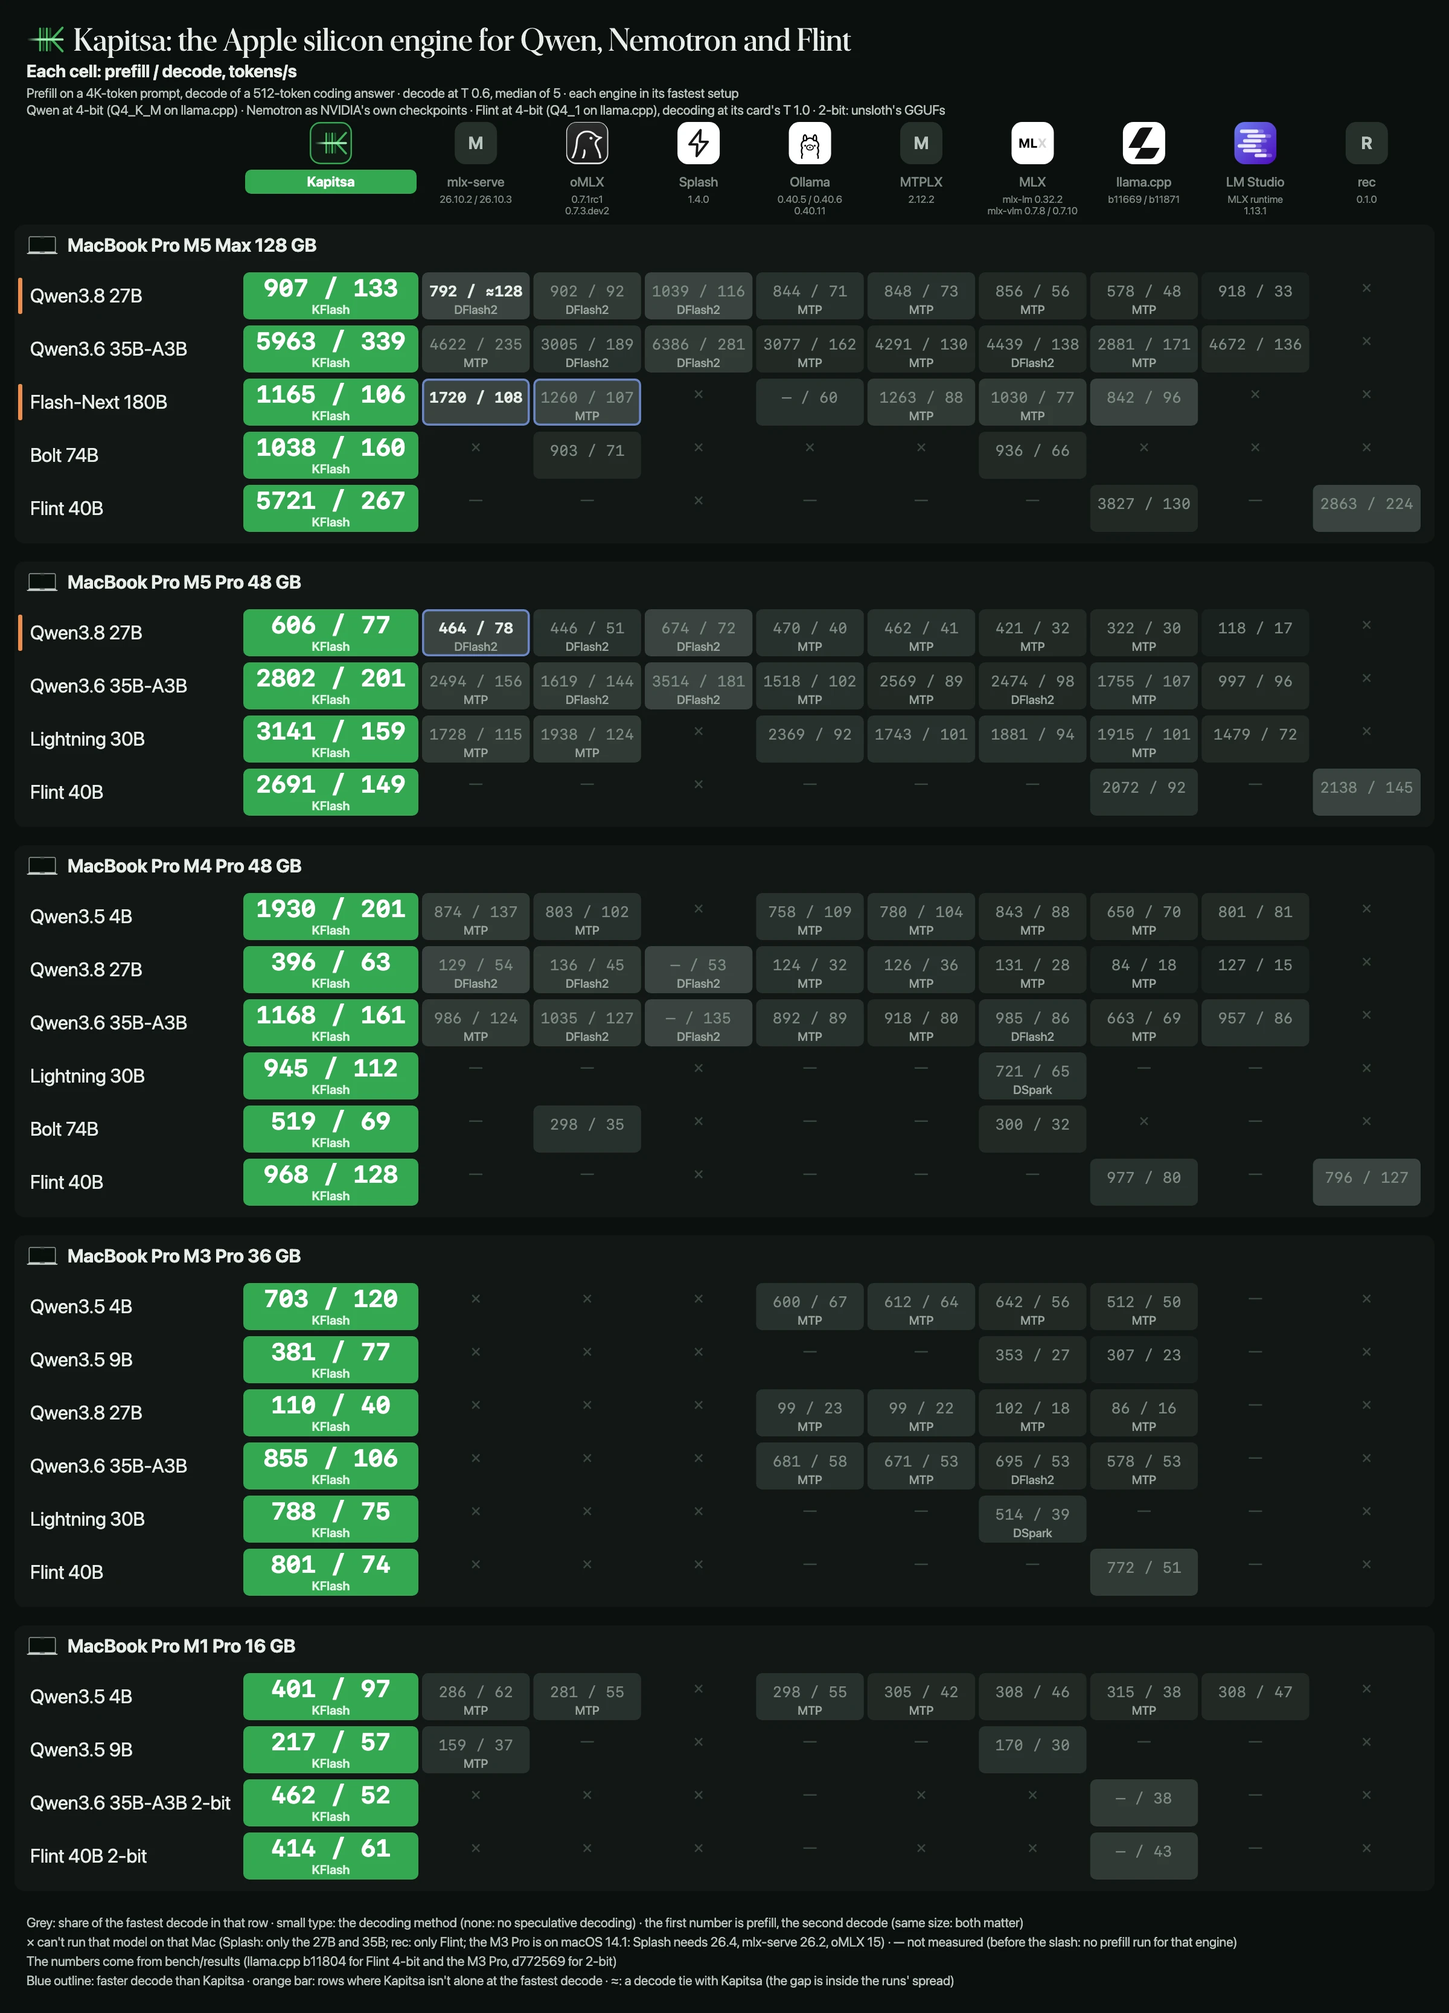
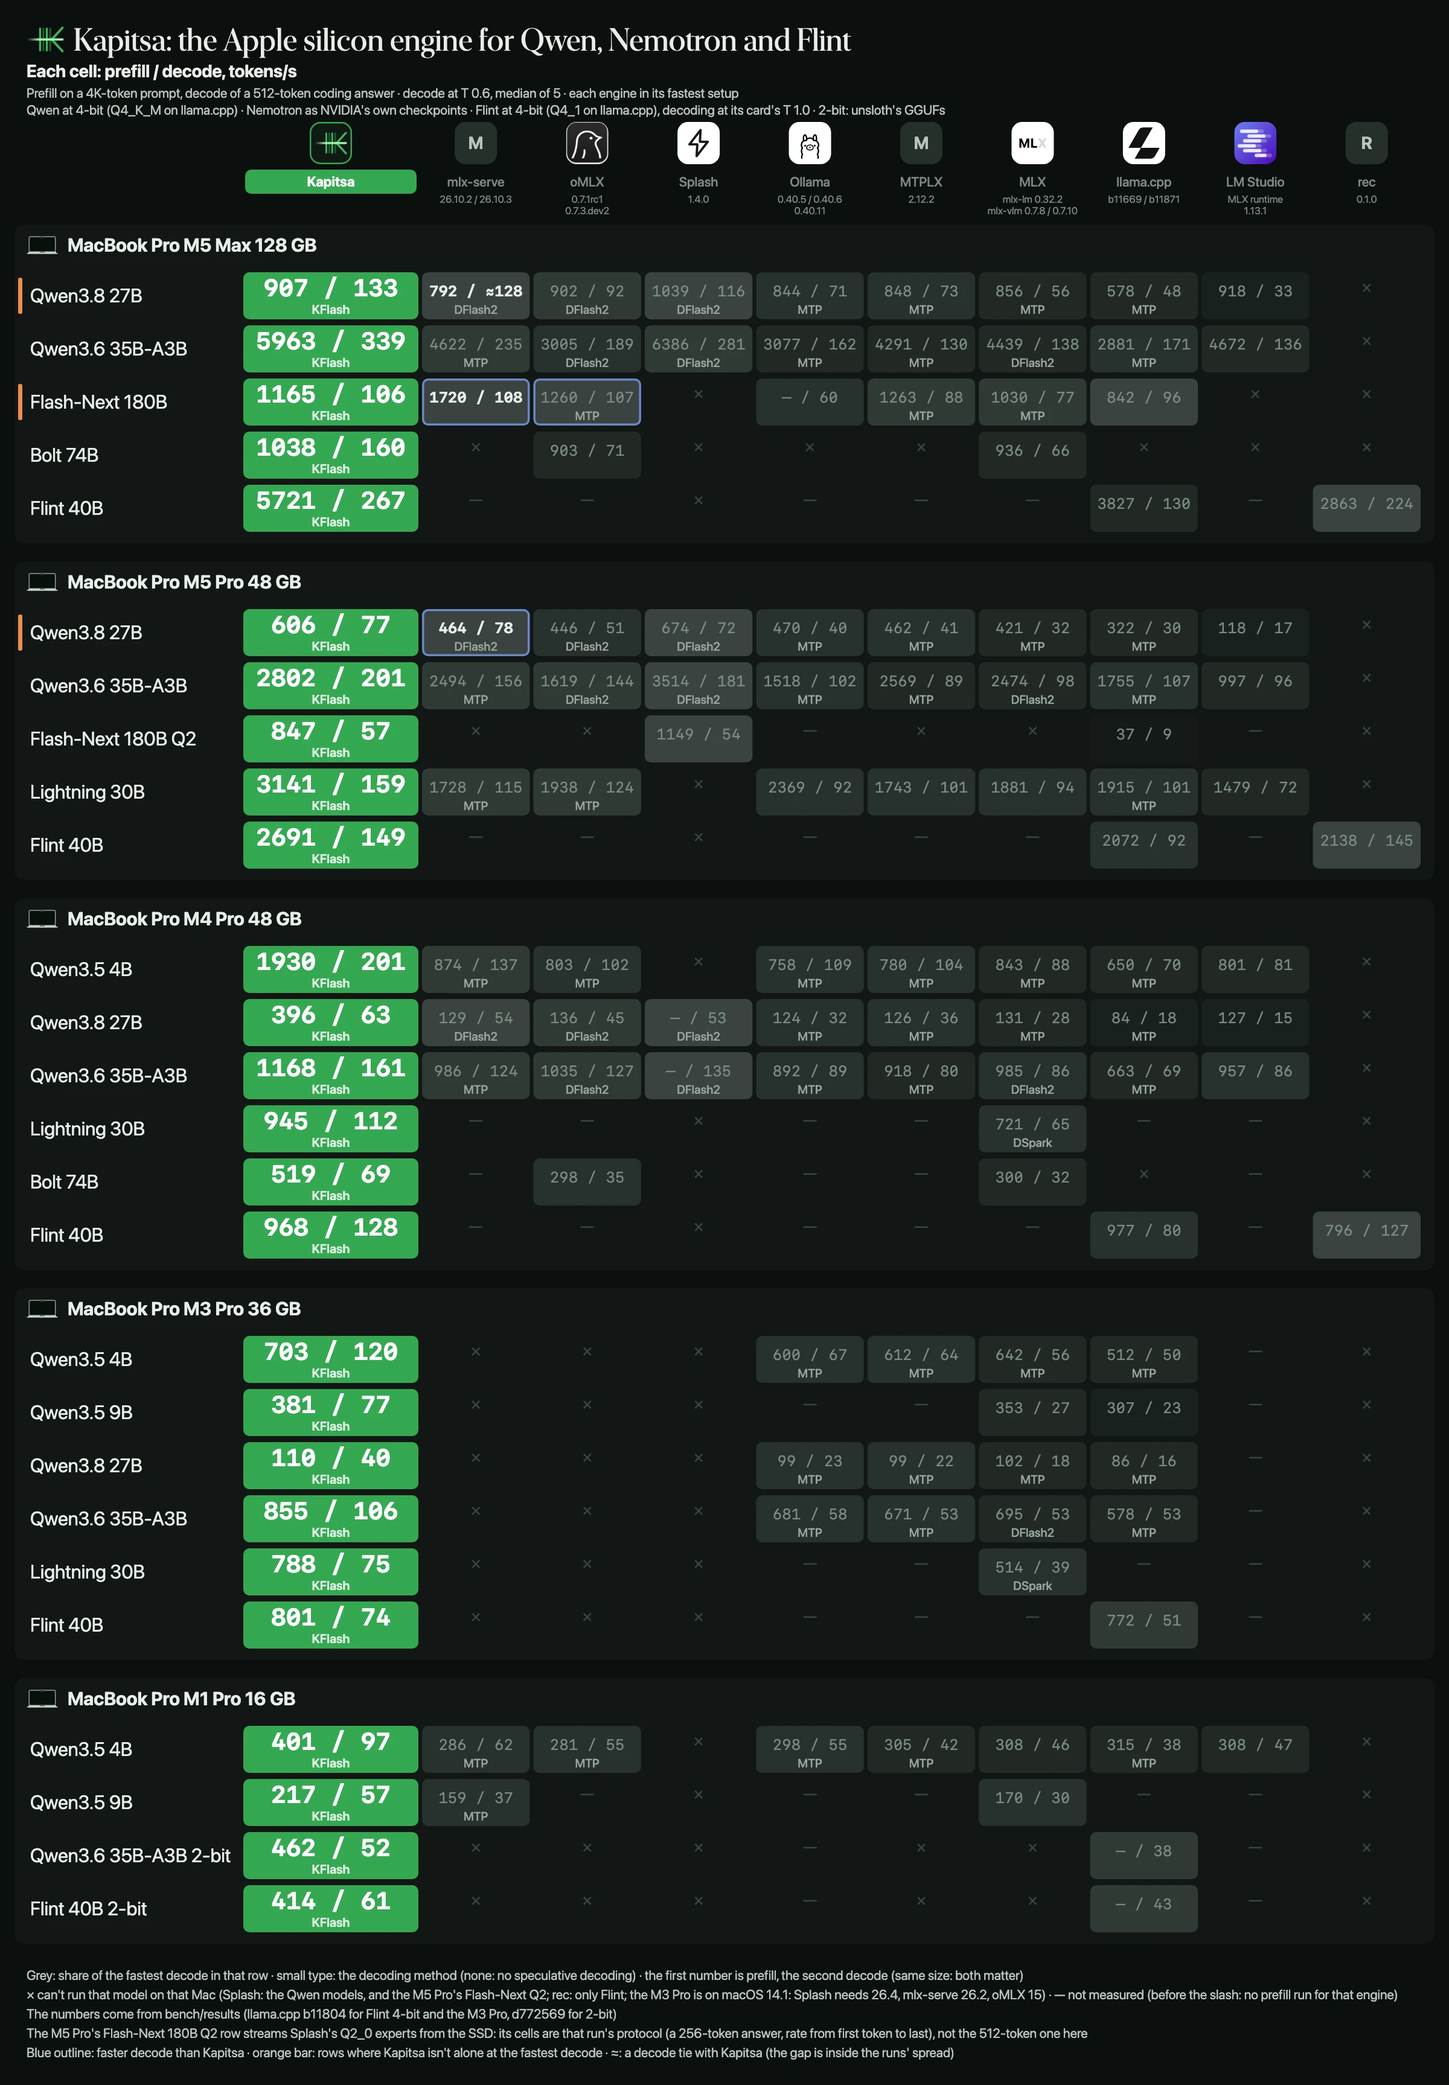
README: the Flash-Next Q2_0 row on the M5 Pro, and What's new for Splash's engine and SSD offloading
The M5 Pro table and poster gain the 2026-10-27 four-engine Flash-Next 180B
Q2_0 row (Kapitsa 847 / 57.2, Splash 1.4.0 1,149 / 54.0, llama.cpp 37 / 9.0)
with the run's own protocol in the caption and the poster footer. The pair
count moves to 33 of 38 pairs, 34 of 38 highest; docs/benchmarks.md gains the
row's bullet and archive line. What's new gains the Splash engine entry and
the SSD-offloading entry; the poster's footer names Splash on this pack.

diff --git a/README.md b/README.md
@@ -10,24 +10,26 @@ Kapitsa is an inference engine for Apple silicon that runs Qwen, Nemotron and Re
 
 ## Benchmarks
 
-Kapitsa has the fastest decode in 32 of the 37 model and Mac pairs measured against nine engines ([how each number was measured](docs/benchmarks.md#how-the-readme-poster-was-measured)).
+Kapitsa has the fastest decode in 33 of the 38 model and Mac pairs measured against nine engines ([how each number was measured](docs/benchmarks.md#how-the-readme-poster-was-measured)).
 
 <picture>
   <source media="(prefers-color-scheme: dark)" srcset="docs/assets/benchmarks-dark.webp">
   <img alt="Poster of prefill / decode speed for Kapitsa and nine other engines on a MacBook Pro M5 Max, M5 Pro, M4 Pro, M3 Pro and M1 Pro; the numbers are in the poster and in the Models section's tables" src="docs/assets/benchmarks-light.webp">
 </picture>
 
-<sub>**Each cell reads prefill / decode in tokens per second.** Prefill is a 4K-token prompt, decode a 512-token answer at T 0.6 (Flint at its card's T 1.0). × cannot run that model · — not measured. How these were measured, run dates and flags: [docs/benchmarks.md](docs/benchmarks.md#how-the-readme-poster-was-measured).</sub>
+<sub>**Each cell reads prefill / decode in tokens per second.** Prefill is a 4K-token prompt, decode a 512-token answer at T 0.6 (Flint at its card's T 1.0). The M5 Pro's Flash-Next 180B Q2 row is a 256-token answer at T 0.6, counted from the first token to the last, on that run's own 4,074-token prompt ([record](bench/results/2026-10-28-m5-pro-flash-next-engines/README.md)). × cannot run that model · — not measured. How these were measured, run dates and flags: [docs/benchmarks.md](docs/benchmarks.md#how-the-readme-poster-was-measured).</sub>
 
 The poster's numbers, and the models it leaves out, are in each Mac's table under [Models](#models). Every recorded run, with its Mac, model, prefill and decode speed, is in the [benchmark table](bench/README.md). Measure your Mac: `kapitsa bench --submit` adds it to the [community results](bench/community/RESULTS.md). Another engine faster on your Mac? `kapitsa bench compare` ranks every engine you have installed, and `--report` writes a Markdown report.
 
 ## 🔥 What's new
 
+- [2026/10] 🌊 **Kapitsa runs Splash's engine: `kapitsa serve --engine splash`** puts Inco's Splash behind Kapitsa's server — the chat page, the OpenAI and Anthropic APIs and streaming, Splash's model folders and `--check` — the Splash backend stack #738-#746 ([capabilities](#splashs-engine), [55.9 tok/s](bench/results/2026-10-28-m5-pro-flash-next-engines/README.md)).
+- [2026/10] 🗄 **A 180B model on a 48 GB Mac**: Qwen3.8-Flash-Next's Q2_0 experts stream from the SSD, 31.7 GiB of peak footprint on Kapitsa's own engine ([numbers](bench/results/2026-10-28-m5-pro-flash-next-engines/README.md), [#751](https://github.com/nace-ai/kapitsa/pull/751)).
 - [2026/10] 🧩 **Flash-Next fits a 64 GB Mac**: `flash-next:64gb` runs Sushi's 2-bit EXL3 experts, 36.7 GB of weights in memory and 69.6 GB to download ([variants](docs/usage.md#models-and-downloads)).
 - [2026/10] 🪶 **Flint on a 16 GB Mac: 61 tok/s against llama.cpp's 43 on the same 2-bit GGUF** ([numbers](docs/benchmarks.md#recursive-flint-40b-a25b-with-2-bit-experts-m1-pro-16-gb-2026-10-22)).
 - [2026/10] 🪨 **Recursive's Flint 40B-A2.5B: decodes faster than llama.cpp, and on the M4 Pro reads prompts faster than rec 0.1.0** ([M4 Pro](docs/benchmarks.md#recursive-flint-40b-a25b-m4-pro-2026-10-22), [M5 Pro](docs/benchmarks.md#recursive-flint-40b-a25b-m5-pro-2026-10-22)).
 - [2026/10] 🚀 **KFlash: tree speculative decoding** ([how it works](docs/kflash.md)).
-- [2026/10] 🏆 **The fastest decode in 32 of 37 model and Mac pairs** against nine engines, up to 2.9× MLX ([poster](#benchmarks)).
+- [2026/10] 🏆 **The fastest decode in 33 of 38 model and Mac pairs** against nine engines, up to 2.9× MLX ([poster](#benchmarks)).
 - [2026/10] 🤝 **KFlash budget: three requests share one verify pass**, up to +23% total throughput on the 27B ([#207](https://github.com/nace-ai/kapitsa/pull/207), [KFlash](docs/kflash.md#limitations)).
 - [2026/10] ⚡ **QMT prefill: 25% off the time to first token on the M5 Pro** (Qwen3.6 35B-A3B at 4K, 20% at 16K) with the Metal 4 matrix units ([measured](docs/usage.md#environment-variables)).
 - [2026/10] 💾 **SSD prefix cache: a 16K follow-up after a restart starts in 0.16 s instead of 17 s** (`--disk-cache`).
@@ -129,7 +131,7 @@ The catalog models measured on each Mac, against the engines that run them: one 
 </details>
 
 <details>
-<summary><b>MacBook Pro (16-inch, 2026) · M5 Pro · 48 GB</b> · 6 models</summary>
+<summary><b>MacBook Pro (16-inch, 2026) · M5 Pro · 48 GB</b> · 7 models</summary>
 
 **Qwen and Nemotron**
 
@@ -137,6 +139,7 @@ The catalog models measured on each Mac, against the engines that run them: one 
 | --- | ---: | ---: | ---: | ---: | ---: | ---: | ---: | ---: | ---: |
 | **Qwen3.8-27B** · `27b`<br><sub>dense · 4-bit, 20.2 GB</sub> | 606 / 77<br><sub>KFlash</sub> | 🟩 464 / **78**<br><sub>DFlash2</sub> | 446 / 51<br><sub>DFlash2</sub> | 674 / 72<br><sub>DFlash2</sub> | 470 / 40<br><sub>MTP</sub> | 462 / 41<br><sub>MTP</sub> | 421 / 32<br><sub>MTP</sub> | 322 / 30<br><sub>MTP</sub> | 118 / 17 |
 | **Qwen3.6-35B-A3B** · `35b`<br><sub>MoE, 3B active · 4-bit, 22.1 GB</sub> | 🟩 2802 / **201**<br><sub>KFlash</sub> | 2494 / 156<br><sub>MTP</sub> | 1619 / 144<br><sub>DFlash2</sub> | 3514 / 181<br><sub>DFlash2</sub> | 1518 / 102<br><sub>MTP</sub> | 2569 / 89<br><sub>MTP</sub> | 2474 / 98<br><sub>DFlash2</sub> | 1755 / 107<br><sub>MTP</sub> | 997 / 96 |
+| **Qwen3.8-Flash-Next 180B-A7B** · `flash-next`<br><sub>MoE, 7B active · Q2_0 experts streamed from the SSD</sub> | 🟩 847 / **57**<br><sub>KFlash · e840651c</sub> | × | × | 1149 / 54 | — | × | × | 37 / 9<br><sub>c7474afc</sub> | — |
 | **Nemotron Dory1.0 4B** · `dory`<br><sub>looped dense · NVFP4, 3.2 GB</sub> | 🟩 **70**<br><sub>KFlash</sub> | × | × | × | × | × | 53 | 13 | × |
 | **Nemotron 3.5 Lightning 30B-A3B** · `lightning`<br><sub>hybrid MoE, 3B active · NVFP4, 22.9 GB</sub> | 🟩 3141 / **159**<br><sub>KFlash</sub> | 1728 / 115<br><sub>MTP</sub> | 1938 / 124<br><sub>MTP</sub> | × | 2369 / 92 | 1743 / 101 | 1881 / 94 | 1915 / 101<br><sub>MTP</sub> | 1479 / 72 |
 | **Nemotron 3.5 Bolt 74B-A9B** · `bolt`<br><sub>hybrid MoE, 9B active · 2/4/8-bit mix, 25.1 GB</sub> | 🟩 **79**<br><sub>KFlash</sub> | × | 39 | × | × | × | 41 | × | × |
@@ -147,7 +150,7 @@ The catalog models measured on each Mac, against the engines that run them: one 
 | --- | ---: | ---: | ---: |
 | **Recursive Flint 40B-A2.5B** · `flint`<br><sub>MoE, 2.5B active · 4-bit, 22.6 GB</sub> | 🟩 2691 / **149**<br><sub>KFlash</sub> | 2072 / 92 | 2138 / 145 |
 
-<sub>Qwen3.8-Flash-Next 180B-A7B does not fit in 48 GB, so both engines stream its experts from the SSD. With Q2_0 weights on both and Kapitsa's expert store pinned at 24 GB (the auto size here is about 29.9 GB, but four runs at that size were stopped at memory pressure), Kapitsa's prefill is behind on short prompts, level at 4K and 16K and 2.7% ahead at 32K: not the fastest everywhere (correction, 24 Oct: on Kapitsa's warm second leg alone its prefill is 13.5-14.5% behind at 1K, level at 4K and a few percent ahead at 16K and 32K; [numbers and caveats](docs/benchmarks.md#qwen38-flash-next-streamed-from-the-ssd-kapitsa-against-llamacpp-m5-pro-48-gb-2026-10-24)).</sub>
+<sub>Qwen3.8-Flash-Next 180B-A7B does not fit in 48 GB, so both engines stream its experts from the SSD. With Q2_0 weights on both and Kapitsa's expert store pinned at 24 GB (the auto size here is about 29.9 GB, but four runs at that size were stopped at memory pressure), Kapitsa's prefill is behind on short prompts, level at 4K and 16K and 2.7% ahead at 32K: not the fastest everywhere (correction, 24 Oct: on Kapitsa's warm second leg alone its prefill is 13.5-14.5% behind at 1K, level at 4K and a few percent ahead at 16K and 32K; [numbers and caveats](docs/benchmarks.md#qwen38-flash-next-streamed-from-the-ssd-kapitsa-against-llamacpp-m5-pro-48-gb-2026-10-24)). The Flash-Next 180B Q2 row is a separate 2026-10-27 four-engine run ([record](bench/results/2026-10-28-m5-pro-flash-next-engines/README.md)), which did not use this table's protocol: its decode rate runs over a 256-token answer at T 0.6, counted from the first token to the last, over 12 requests for Kapitsa, 10 for Splash and 2 for llama.cpp, and its 4K prefill is prompt tokens over time to first token on that run's own 4,074-token prompt, against this table's 4,133. Kapitsa ran its own engine with MTP and its expert store pinned at 24 GB, not sized from free memory. Three of its legs were stopped at memory-pressure level 4, with up to 4.5 GB of swap, late in the leg (16K prefill or turn 2), so its 16K and turn-2 cells have 9 runs against 12; its decode and 4K cells are the 12. Ollama and LM Studio were not run on that Q2_0 pack, so their cells are dashes, and mlx-serve, oMLX, MTPLX and MLX have no pack of this model that fits 48 GB.</sub>
 
 </details>
 

diff --git a/docs/benchmarks.md b/docs/benchmarks.md
@@ -16,24 +16,25 @@ where each of their numbers comes from and how it was measured.
 
 ## At a glance
 
-Decode is the writing speed of a 512-token coding answer at T 0.6 (Flint at its card's T 1.0). "Lead" is Kapitsa's
-decode over the next fastest engine on that model.
+Decode is the writing speed of a 512-token coding answer at T 0.6 (Flint at its card's T 1.0; the M5 Pro's Flash-Next
+Q2 row is a 256-token answer, [record](../bench/results/2026-10-28-m5-pro-flash-next-engines/README.md)). "Lead" is
+Kapitsa's decode over the next fastest engine on that model.
 
 | Mac | Kapitsa's decode lead | Where another engine is ahead |
 | --- | --- | --- |
 | [M5 Max, 128 GB](#m5-max) | 35B-A3B **1.21x** Splash · Bolt **2.3x** oMLX · Flint 1.2x rec (1.06-1.25x over the night's runs) · Lightning 1.41x · Super-VL 1.42x · Dory 1.57x | 27B decode: level with mlx-serve, 133 against 128, inside the runs' spread. Flash-Next decode: mlx-serve 108 against 106. Prefill: Splash on the 27B (1,039 against 907) and the 35B-A3B (6,386 against 5,963); mlx-serve, oMLX and MTPLX on Flash-Next |
-| [M5 Pro, 48 GB](#m5-pro) | 35B-A3B **1.11x** Splash · Lightning 1.28x · Bolt 1.93x · Dory 1.32x · Flint 1.03x rec | 27B decode: mlx-serve 78 against 77, inside the runs' spread. Prefill: Splash on the 35B-A3B (1.25x) and the 27B (1.11x) |
+| [M5 Pro, 48 GB](#m5-pro) | 35B-A3B **1.11x** Splash · Lightning 1.28x · Bolt 1.93x · Dory 1.32x · Flint 1.03x rec · Flash-Next Q2_0 1.06x Splash | 27B decode: mlx-serve 78 against 77, inside the runs' spread. Prefill: Splash on the 35B-A3B (1.25x), the 27B (1.11x) and the Flash-Next Q2_0 row (1,149 against 847) |
 | [M4 Pro, 48 GB](#m4-pro) | 4B **1.47x** mlx-serve · 27B 1.17x · 35B-A3B 1.19x Splash · Lightning 1.72x · Bolt 1.97x · Dory 1.33x · Flint 1.01x rec | Flint prefill: llama.cpp 977 against 968 |
 | [M3 Pro, 36 GB](#m3-pro) | 4B 1.79x · 9B **2.90x** · 27B 1.77x · 35B-A3B 1.84x · Lightning 1.92x · Flint 1.45x · Dory 1.21x | Nano 4B decode: llama.cpp 34.9 against 34.4. Nano 9B v2: mlx-lm 24.9 against 20.9 (both on lighter 4-bit files) |
 | [M1 Pro, 16 GB](#m1-pro) | 4B 1.56x · 9B 1.54x · 35B-A3B 2-bit 1.37x · Flint 2-bit 1.42x · Dory 1.30x · Nano 4B 1.32x · Nano 9B v2 1.39x | — |
 
-Kapitsa reads the highest decode in 33 of the 37 model and Mac pairs, and the 32 in the headline is the wins count:
-one of the 33 is a tie (≈) that is not counted as a win. A tie is the row's fastest rival, the one the tables pair
+Kapitsa reads the highest decode in 34 of the 38 model and Mac pairs, and the 33 in the headline is the wins count:
+one of the 34 is a tie (≈) that is not counted as a win. A tie is the row's fastest rival, the one the tables pair
 with Kapitsa, standing inside each other's measured range: the M5 Max's Qwen3.8 27B row (133 against mlx-serve's 128).
-Counted over the poster's and the tables' rows (`tools/readme_images/readme_images.json`): the union of the 38 rows
-where Kapitsa has a decode cell, less the M3 Pro 36 GB's Bolt 74B row, which has no rival, gives 37 pairs. The five
-Kapitsa does not win are in the column above: that tie, the Flash-Next and M5 Pro 27B losses to mlx-serve, and the M3
-Pro's Nano 4B and Nano 9B v2. Each pair
+Counted over the poster's and the tables' rows (`tools/readme_images/readme_images.json`): the union of the 39 rows
+where Kapitsa has a decode cell, less the M3 Pro 36 GB's Bolt 74B row, which has no rival, gives 38 pairs. The five
+Kapitsa does not win are in the column above: that tie, the M5 Max's Flash-Next and the M5 Pro's 27B losses to mlx-serve,
+and the M3 Pro's Nano 4B and Nano 9B v2. Each pair
 compares cells in one power mode. Every cell is the build under it, so the count describes the builds those cells ran,
 not the current binary: a later build that moves a row makes a new measurement, and the poster is re-measured rather
 than re-read. The M5 Max Flash-Next pair (Kapitsa 106 against mlx-serve 108) was checked from the
@@ -182,6 +183,15 @@ cells are newer.
   faster** (1.25x Kapitsa's 35B-A3B cell at 4K, 1.11x its 27B cell); Kapitsa writes faster (11% and 6%).
 - **Lightning:** Kapitsa 3,141 / 159, one run on 2026-10-21 ([results](../bench/results/2026-10-21-m5pro-48gb/README.md)).
   **Dory:** per-loop KV, 70 tok/s ([results](../bench/results/2026-10-22-m5pro-dory/README.md)).
+- **Qwen3.8-Flash-Next 180B-A7B, Q2_0 streamed from the SSD.** Kapitsa 847 / 57.2 (its own engine at `e840651c`, MTP depth
+  2, expert store pinned at 24 GB), Splash 1.4.0 1,149 / 54.0 and llama.cpp 37 / 9.0 (`c7474afc`): the 2026-10-27 four-engine
+  run ([results](../bench/results/2026-10-28-m5-pro-flash-next-engines/README.md)), the run behind the poster's Q2 row and
+  the M5 Pro table under [Models](../README.md#models). **Splash reads the 4K prompt 1.36x as fast**; Kapitsa writes 6%
+  faster. The row is not this page's protocol: its decode rate is a 256-token answer at T 0.6, counted from the first token
+  to the last, and its 4K prompt is 4,074 tokens against 4,133. Three of the native engine's legs were stopped at
+  memory-pressure level 4, with up to 4.5 GB of swap, late in the leg (16K prefill or turn 2), so its 16K and turn-2 cells
+  have 9 runs against 12; neither engine's run is an auto-size result. Ollama and LM Studio were not run on the pack, and
+  the MLX engines have no pack of this model that fits 48 GB. Nothing here is re-measured from the 2026-10-24 bench.
 - **Flint:** see [Flint on the M5 Pro](#recursive-flint-40b-a25b-m5-pro-2026-10-22).
 - Settings: MLX is mlx-vlm with MTP on the 4B and 27B and with DFlash2 on the 35B-A3B, mlx-lm on Lightning and Dory,
   mlx-vlm on Bolt; oMLX MTP on Lightning and DFlash2 on the 27B and 35B-A3B; mlx-serve MTP except its DFlash2 draft tree
@@ -465,3 +475,4 @@ result files and READMEs stay in [bench/results](../bench/results/); each row li
 | 2026-10-22 | M5 Pro | Flint on Kapitsa before #345: main `6c13588`, then with #340 (expert GEMMs on the tensor units) | [flint-m5pro](../bench/results/2026-10-22-flint-m5pro/README.md), [flint-m5pro-qtm](../bench/results/2026-10-22-flint-m5pro-qtm/README.md) |
 | 2026-10-22 | M3 Pro | Flint on battery (superseded by the AC run) | [2026-10-22-flint-m3pro](../bench/results/2026-10-22-flint-m3pro/README.md) |
 | 2026-10-23 | M5 Pro | The 35B-A3B after #362 and the 27B after #360 | [2026-10-23-m5-pro-35b-27b](../bench/results/2026-10-23-m5-pro-35b-27b/README.md) |
+| 2026-10-27 | M5 Pro | Flash-Next 180B Q2_0 streamed from the SSD: Kapitsa's own engine, Splash 1.4.0 and llama.cpp, with memory footprints | [2026-10-28-m5-pro-flash-next-engines](../bench/results/2026-10-28-m5-pro-flash-next-engines/README.md) |
